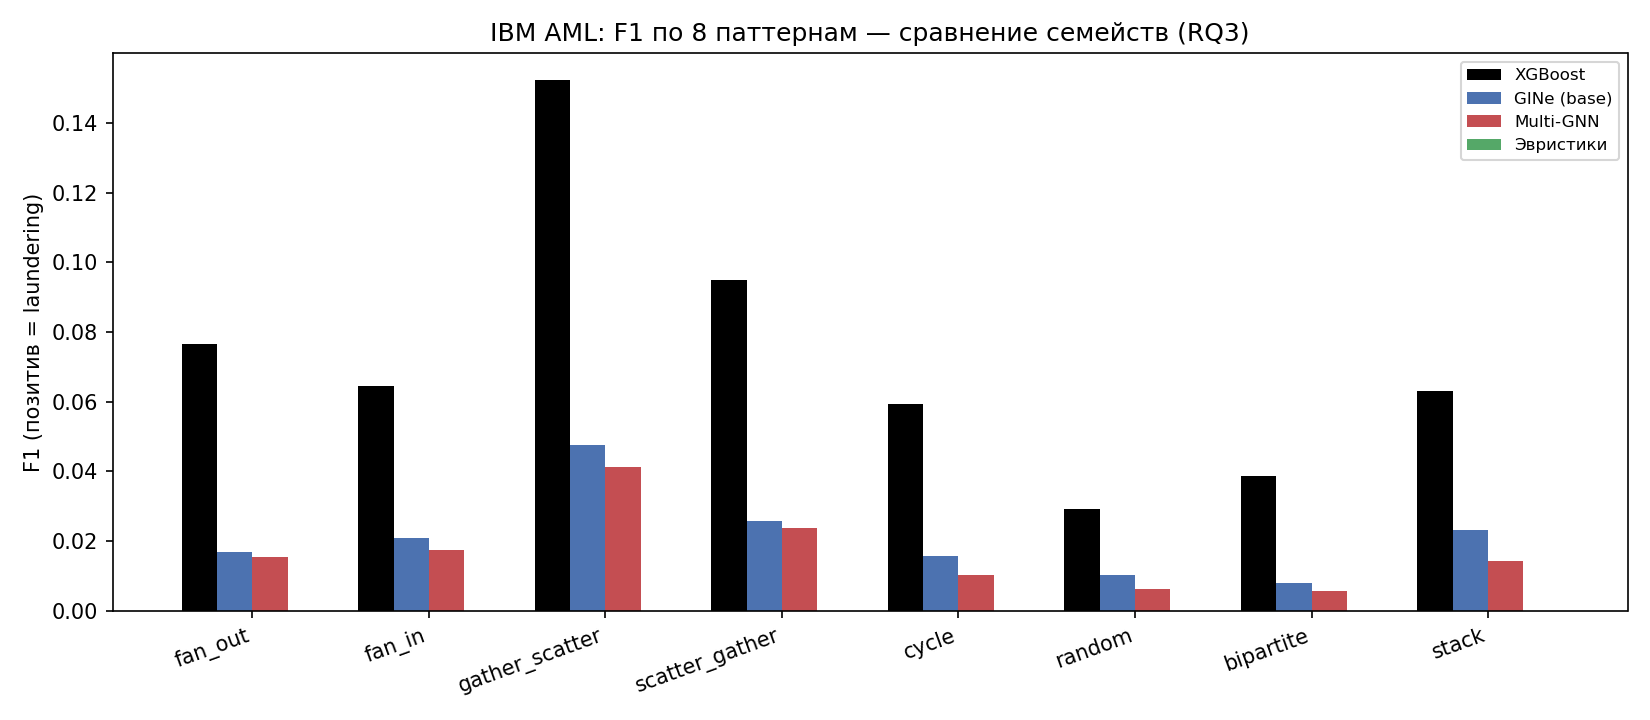
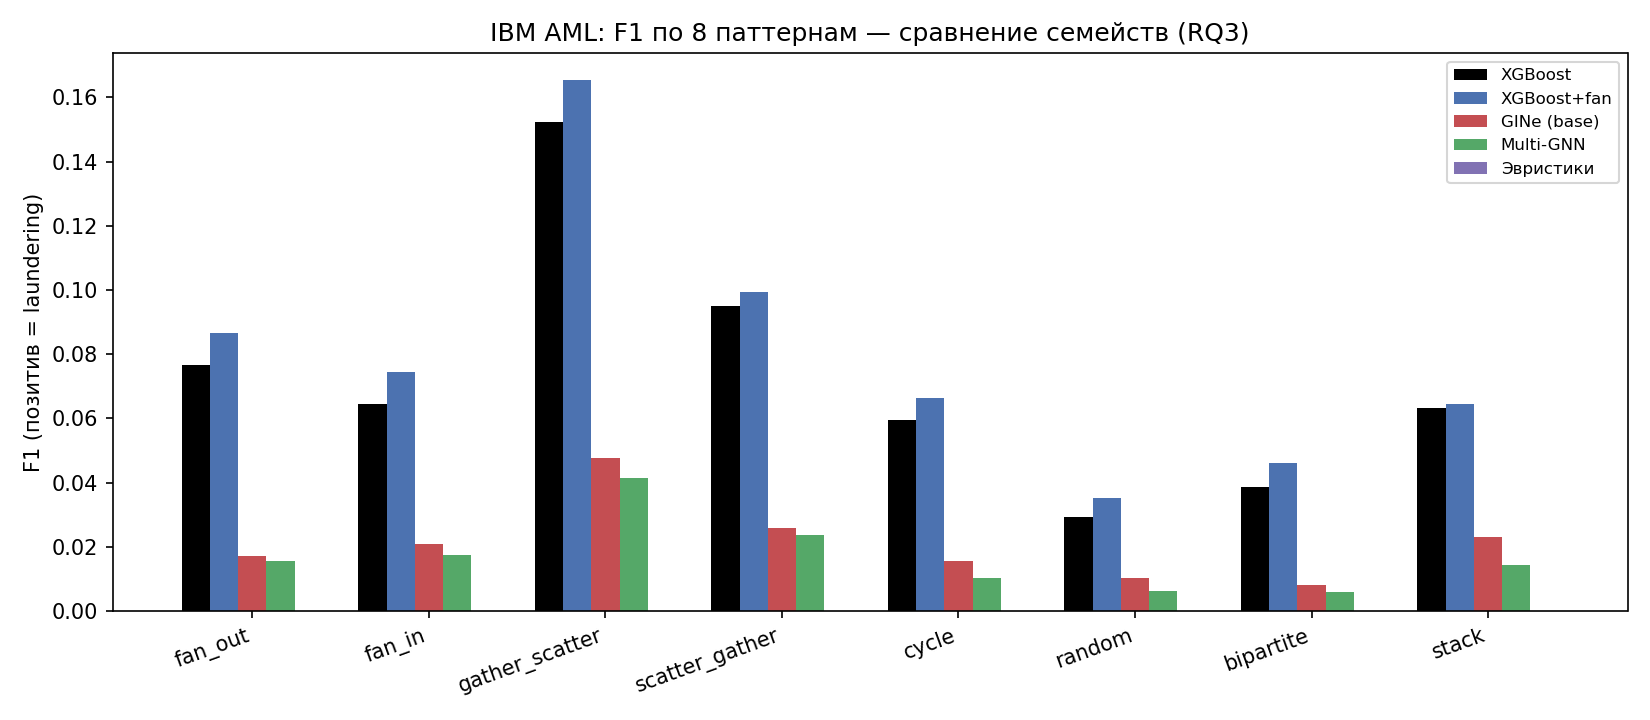
feat: XGBoost+fan в основной таблице + синхронизация docs под честный итог
- compare.py: XGBoost+fan в IBM_VARIANTS_FULLDATA и PER_PATTERN_FAMILIES
- lit_benchmarks.md §1.2: фактические AUC-PR по трём режимам вместо устаревших чисел;
  edge-updates прогнаны (прироста нет); вклад работы — применимость графов, не превосходство над XGBoost
- снята формулировка про «воспроизводим направление эффекта» во всех ibm_comparison*.md
- регенерированы results/ (per_pattern с колонкой XGBoost+fan)

diff --git a/src/compare.py b/src/compare.py
@@ -59,6 +59,7 @@ IBM_VARIANTS_NOTIME = [
 ]
 IBM_VARIANTS_FULLDATA = [
     ("ibm_xgboost_notime", "XGBoost"),
+    ("ibm_xgboost_fan", "XGBoost+fan"),
     ("ibm_gine_fulldata", "GINe (base)"),
     ("ibm_gine_rev_fulldata", "+reverse"),
     ("ibm_gine_port_fulldata", "+port"),
@@ -100,6 +101,7 @@ CANONICAL_PATTERNS = [
 # выбранный baseline). Режим явно указан в заголовке таблицы.
 PER_PATTERN_FAMILIES = [
     ("ibm_xgboost_notime", "XGBoost"),
+    ("ibm_xgboost_fan", "XGBoost+fan"),
     ("ibm_gine_fulldata", "GINe (base)"),
     ("ibm_multignn_fulldata", "Multi-GNN"),
     ("ibm_heuristics", "Эвристики"),
@@ -281,9 +283,12 @@ def _literature_block() -> str:
     for name, f1, note in LITERATURE_F1_HI:
         lines.append(f"| {name} | {f1:.1f} | {note} |")
     lines += ["",
-              "Наш режим ослаблен (сабсэмпл негативов, окрестности [10,10], без edge-",
-              "updates, XGBoost без подграфовых GF-фич), поэтому абсолютные числа ниже;",
-              "воспроизводим направление эффекта, см. docs/lit_review.md.", ""]
+              "Наш режим ослаблен (сабсэмпл негативов, окрестности [10,10], XGBoost без",
+              "подграфовых GF-фич), поэтому абсолютные числа ниже. Устойчивого переноса",
+              "эффекта адаптаций (reverse/port/ego) не наблюдается ни в одном из трёх",
+              "режимов (с временем / без времени / full-data): знак и порядок дельт к base",
+              "меняются между режимами, full-data не воспроизводит направление Egressy.",
+              "См. docs/lit_benchmarks.md §1.2.", ""]
     return "\n".join(lines)
 
 

diff --git a/docs/lit_benchmarks.md b/docs/lit_benchmarks.md
@@ -49,9 +49,22 @@
 
 ### 1.2. Сопоставление с нашими результатами (results/ibm_*.json) и причины разрыва
 
-Наши числа (полный HI-Small, temporal split 65/15/20, порог по val): XGBoost
-F1 = 0.190 / AUC-PR = 0.129; GINe base F1 = 0.134; +rev 0.078; +port 0.125;
-+ego 0.151; full 0.066. У Egressy GIN base = 28.7, Multi-GIN = 57.2, XGB+GF = 63.2.
+Наши числа (полный HI-Small, temporal split 65/15/20, порог по val), AUC-PR по
+трём режимам обучения GNN-ablation (`results/ibm_comparison*.md`):
+
+| вариант | с norm_time | без norm_time | full-data/no-time |
+|---|---|---|---|
+| XGBoost (no-time, выбранный baseline) | — | 0.240 | 0.240 |
+| XGBoost+fan (подграфовые fan-фичи) | — | — | **0.228** |
+| GINe base | 0.019 | 0.044 | 0.054 |
+| +reverse | 0.040 | 0.026 | 0.040 |
+| +port | 0.039 | 0.035 | 0.054 |
+| +ego | 0.037 | 0.049 | 0.033 |
+| Multi-GNN (full) | 0.051 | 0.013 | 0.041 |
+| GINe+EU (edge updates, full-data) | — | — | 0.026 |
+| Multi-GNN+EU (full-data) | — | — | 0.035 |
+
+У Egressy GIN base = 28.7, Multi-GIN = 57.2, XGB+GF = 63.2 (F1-minority, %).
 
 Числа **несопоставимы напрямую**, расхождение объяснимо и должно явно
 оговариваться в отчёте:
@@ -65,8 +78,10 @@ F1 = 0.190 / AUC-PR = 0.129; GINe base F1 = 0.134; +rev 0.078; +port 0.125;
    референсной реализации IBM/Multi-GNN окрестности и батчи существенно больше
    (точные гиперпараметры — в `github.com/IBM/Multi-GNN`, сверить перед финальным
    прогоном; в статье они в Appendix F).
-4. **Edge updates**: у нас их нет; GIN → GIN+EU в статье даёт +19 п.п. — самый
-   дешёвый кандидат на доработку, если останется время.
+4. **Edge updates**: реализованы (флаг `edge_updates`, GIN+EU) и прогнаны на
+   full-data; у Egressy GIN → GIN+EU даёт +19 п.п., у нас прироста нет (GINe base
+   0.054 → GINe+EU 0.026, Multi-GNN 0.041 → Multi-GNN+EU 0.035 по AUC-PR). Самый
+   дешёвый «рычаг» из статьи в нашем режиме не переносится.
 5. **GF-фичи у GBT**: их XGBoost+GF включает подграфовые фичи (fan/cycle/…) из
    GFP (см. 1.3); наш XGBoost использует только degree/суммы/параллельные рёбра —
    поэтому наш XGBoost (0.19) много ниже их 63.2.
@@ -77,9 +92,16 @@ F1 = 0.190 / AUC-PR = 0.129; GINe base F1 = 0.134; +rev 0.078; +port 0.125;
    раздельных весов AGG_in/AGG_out (у нас один GINEConv на оба направления с
    флагом, у них — раздельные агрегаторы), сабсэмплинг негативов.
 
-**Честная формулировка для отчёта:** мы воспроизводим *направление* эффекта
-адаптаций в ослабленном вычислительном режиме и фиксируем, где выводы Egressy
-не переносятся (reverse при малых окрестностях), а где переносятся (ego/port ≥ base).
+**Честная формулировка для отчёта:** устойчивого переноса эффекта адаптаций
+(reverse/port/ego) и edge-updates не наблюдается ни в одном из трёх режимов
+(с временем / без времени / full-data): знак и порядок дельт к base меняются между
+режимами, ни одна одиночная адаптация не даёт стабильного прироста, а full-data —
+сильнейший режим — направление Egressy не воспроизводит (base ≈ +port > full).
+Вклад работы — не превосходство GNN над сильным табличным бейзлайном (XGBoost/
+XGBoost+fan на нашем сабсэмпле устойчиво выше всех GNN-вариантов по AUC-PR), а
+анализ применимости графового представления: ROC-AUC, структурная/per-pattern
+разбивка и продуктовый сценарий (Streamlit), где граф даёт интерпретируемость
+цепочек, недоступную табличной модели.
 
 ### 1.3. Blanuša et al., ICAIF 2024 — Graph Feature Preprocessor (GFP)
 

diff --git a/results/per_pattern.md b/results/per_pattern.md
@@ -15,14 +15,14 @@ laundering-рёбрам». Строка `unknown` — справочно.
 эвристики не дискриминативны (illicit-счета НИЖЕ по степени, чем легитимные —
 отмывание через низкостепенных «мулов», не хабы).
 
-| pattern | n_pos | XGBoost | GINe (base) | Multi-GNN | Эвристики |
-|---|---|---|---|---|---|
-| fan_out | 140 | **0.076** | 0.017 | 0.015 | 0.000 |
-| fan_in | 137 | **0.064** | 0.021 | 0.017 | 0.000 |
-| gather_scatter | 401 | **0.152** | 0.048 | 0.041 | 0.000 |
-| scatter_gather | 252 | **0.095** | 0.026 | 0.024 | 0.000 |
-| cycle | 109 | **0.059** | 0.016 | 0.010 | 0.000 |
-| random | 86 | **0.029** | 0.010 | 0.006 | 0.000 |
-| bipartite | 74 | **0.039** | 0.008 | 0.006 | 0.000 |
-| stack | 140 | **0.063** | 0.023 | 0.014 | 0.000 |
-| unknown | 459 | 0.072 | 0.023 | 0.007 | 0.003 |
+| pattern | n_pos | XGBoost | XGBoost+fan | GINe (base) | Multi-GNN | Эвристики |
+|---|---|---|---|---|---|---|
+| fan_out | 140 | 0.076 | **0.087** | 0.017 | 0.015 | 0.000 |
+| fan_in | 137 | 0.064 | **0.074** | 0.021 | 0.017 | 0.000 |
+| gather_scatter | 401 | 0.152 | **0.165** | 0.048 | 0.041 | 0.000 |
+| scatter_gather | 252 | 0.095 | **0.099** | 0.026 | 0.024 | 0.000 |
+| cycle | 109 | 0.059 | **0.066** | 0.016 | 0.010 | 0.000 |
+| random | 86 | 0.029 | **0.035** | 0.010 | 0.006 | 0.000 |
+| bipartite | 74 | 0.039 | **0.046** | 0.008 | 0.006 | 0.000 |
+| stack | 140 | 0.063 | **0.065** | 0.023 | 0.014 | 0.000 |
+| unknown | 459 | 0.072 | 0.061 | 0.023 | 0.007 | 0.003 |

diff --git a/results/ibm_comparison_fulldata.md b/results/ibm_comparison_fulldata.md
@@ -6,6 +6,7 @@
 | variant | auc_pr | f1 | recall_at_precision_90 | recall |
 |---|---|---|---|---|
 | XGBoost | 0.2398 | 0.2976 | 0.0217 | 0.3103 |
+| XGBoost+fan | 0.2282 | 0.2825 | 0.0156 | 0.2586 |
 | GINe (base) | 0.0537 | 0.1160 | 0.0000 | 0.1446 |
 | +reverse | 0.0401 | 0.0831 | 0.0000 | 0.1007 |
 | +port | 0.0542 | 0.1114 | 0.0000 | 0.1279 |
@@ -29,6 +30,9 @@
 | Multi-PNA+EU (SOTA) | 68.2 | единственный обошёл GBT+GF на всех AML |
 | XGBoost без GF (Blanuša 2024) | 24.5 | ≈ наш XGBoost 19.0 по порядку |
 
-Наш режим ослаблен (сабсэмпл негативов, окрестности [10,10], без edge-
-updates, XGBoost без подграфовых GF-фич), поэтому абсолютные числа ниже;
-воспроизводим направление эффекта, см. docs/lit_review.md.
+Наш режим ослаблен (сабсэмпл негативов, окрестности [10,10], XGBoost без
+подграфовых GF-фич), поэтому абсолютные числа ниже. Устойчивого переноса
+эффекта адаптаций (reverse/port/ego) не наблюдается ни в одном из трёх
+режимов (с временем / без времени / full-data): знак и порядок дельт к base
+меняются между режимами, full-data не воспроизводит направление Egressy.
+См. docs/lit_benchmarks.md §1.2.

diff --git a/results/ibm_comparison.md b/results/ibm_comparison.md
@@ -29,6 +29,9 @@
 | Multi-PNA+EU (SOTA) | 68.2 | единственный обошёл GBT+GF на всех AML |
 | XGBoost без GF (Blanuša 2024) | 24.5 | ≈ наш XGBoost 19.0 по порядку |
 
-Наш режим ослаблен (сабсэмпл негативов, окрестности [10,10], без edge-
-updates, XGBoost без подграфовых GF-фич), поэтому абсолютные числа ниже;
-воспроизводим направление эффекта, см. docs/lit_review.md.
+Наш режим ослаблен (сабсэмпл негативов, окрестности [10,10], XGBoost без
+подграфовых GF-фич), поэтому абсолютные числа ниже. Устойчивого переноса
+эффекта адаптаций (reverse/port/ego) не наблюдается ни в одном из трёх
+режимов (с временем / без времени / full-data): знак и порядок дельт к base
+меняются между режимами, full-data не воспроизводит направление Egressy.
+См. docs/lit_benchmarks.md §1.2.

diff --git a/results/ibm_comparison_eu.md b/results/ibm_comparison_eu.md
@@ -28,6 +28,9 @@
 | Multi-PNA+EU (SOTA) | 68.2 | единственный обошёл GBT+GF на всех AML |
 | XGBoost без GF (Blanuša 2024) | 24.5 | ≈ наш XGBoost 19.0 по порядку |
 
-Наш режим ослаблен (сабсэмпл негативов, окрестности [10,10], без edge-
-updates, XGBoost без подграфовых GF-фич), поэтому абсолютные числа ниже;
-воспроизводим направление эффекта, см. docs/lit_review.md.
+Наш режим ослаблен (сабсэмпл негативов, окрестности [10,10], XGBoost без
+подграфовых GF-фич), поэтому абсолютные числа ниже. Устойчивого переноса
+эффекта адаптаций (reverse/port/ego) не наблюдается ни в одном из трёх
+режимов (с временем / без времени / full-data): знак и порядок дельт к base
+меняются между режимами, full-data не воспроизводит направление Egressy.
+См. docs/lit_benchmarks.md §1.2.

diff --git a/results/ibm_comparison_notime.md b/results/ibm_comparison_notime.md
@@ -29,6 +29,9 @@
 | Multi-PNA+EU (SOTA) | 68.2 | единственный обошёл GBT+GF на всех AML |
 | XGBoost без GF (Blanuša 2024) | 24.5 | ≈ наш XGBoost 19.0 по порядку |
 
-Наш режим ослаблен (сабсэмпл негативов, окрестности [10,10], без edge-
-updates, XGBoost без подграфовых GF-фич), поэтому абсолютные числа ниже;
-воспроизводим направление эффекта, см. docs/lit_review.md.
+Наш режим ослаблен (сабсэмпл негативов, окрестности [10,10], XGBoost без
+подграфовых GF-фич), поэтому абсолютные числа ниже. Устойчивого переноса
+эффекта адаптаций (reverse/port/ego) не наблюдается ни в одном из трёх
+режимов (с временем / без времени / full-data): знак и порядок дельт к base
+меняются между режимами, full-data не воспроизводит направление Egressy.
+См. docs/lit_benchmarks.md §1.2.